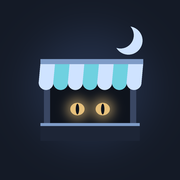
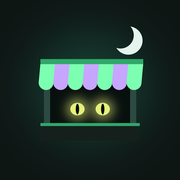
Give the Haunted Mall a new look: dripping ectoplasm with Rubik Wet Paint
Slime green and spectral lilac on green-black, picked from 12 options.
The first-paint defaults, manifest colors and app icon match it.

Changed region(s): [[0.1944, 0.3056, 0.8056, 0.7778], [0.5278, 0.5556, 0.6111, 0.6389]]

diff --git a/index.html b/index.html
@@ -6,7 +6,7 @@
 <title>Monster Shop Idle</title>
 <!-- installable as a home-screen app (manifest.webmanifest, sw.js; icons drawn by tools/make_icons.py) -->
 <link rel="manifest" href="manifest.webmanifest">
-<meta name="theme-color" content="#141a26">
+<meta name="theme-color" content="#0e1614">
 <link rel="icon" type="image/png" sizes="32x32" href="icons/favicon-32.png">
 <link rel="apple-touch-icon" href="icons/apple-touch-icon.png">
 <meta name="mobile-web-app-capable" content="yes">
@@ -14,43 +14,43 @@
 <meta name="apple-mobile-web-app-title" content="Monster Shop">
 <link rel="preconnect" href="https://fonts.googleapis.com">
 <link rel="preconnect" href="https://fonts.gstatic.com" crossorigin>
-<link id="skinFonts" href="https://fonts.googleapis.com/css2?family=Alegreya:wght@700&family=Alegreya+Sans:wght@400;500;700&display=swap" rel="stylesheet">
+<link id="skinFonts" href="https://fonts.googleapis.com/css2?family=Rubik+Wet+Paint&family=Rubik:wght@400;500;700&display=swap" rel="stylesheet">
 <style>
   /* Colors and fonts come from the active skin (SKINS[].theme sets these same names).
      The defaults here are the Haunted Mall skin, so the first paint looks right before the script runs. */
   :root {
-    --bg: #141a26;            /* page */
-    --bg-glow: #243049;       /* soft light at the top of the page */
-    --deep: #0e131c;          /* bar tracks and drop shadows */
-    --panel: #1d2536;         /* shop signs, side panels, cards */
-    --edge: #3a4763;          /* panel borders */
-    --chain: #3a4763;         /* the little chains the shop signs hang from; transparent hides them */
-    --accent: #cfe3ff;        /* cash, Buy, highlights */
-    --accent-dark: #7f9cc7;
-    --on-accent: #14223a;
-    --alt: #6fd1e0;           /* Automate, goals, milestone badge */
-    --alt-dark: #2f8fa0;
-    --on-alt: #062228;
-    --ink: #e6ecf5;
-    --ink-dim: #9aa6bd;
-    --stat: #e6c07b;          /* the milestone currency in the header */
-    --off: #2a3346;           /* disabled Buy */
-    --off-ink: #7f8aa3;
-    --off-dark: #1a2130;
-    --alt-off: #23393f;       /* disabled Automate */
-    --alt-off-ink: #7d9aa0;
-    --alt-off-dark: #16262a;
-    --badge-off: #5a9aa5;
-    --badge-off-dark: #2a5a62;
-    --backdrop: rgba(6, 9, 16, 0.78);
-    --tile-s: 32%;            /* shop icon tiles and bars: hsl(shop hue, these) */
-    --tile-l: 46%;
-    --bar-s: 55%;
-    --bar-l: 62%;
+    --bg: #0e1614;            /* page */
+    --bg-glow: #163a30;       /* soft light at the top of the page */
+    --deep: #08100e;          /* bar tracks and drop shadows */
+    --panel: #15201d;         /* shop signs, side panels, cards */
+    --edge: #2d4a42;          /* panel borders */
+    --chain: #2d4a42;         /* the little chains the shop signs hang from; transparent hides them */
+    --accent: #7dffb2;        /* cash, Buy, highlights */
+    --accent-dark: #2fa86a;
+    --on-accent: #042014;
+    --alt: #c7a6ff;           /* Automate, goals, milestone badge */
+    --alt-dark: #7a58c0;
+    --on-alt: #1a0c33;
+    --ink: #e4f5ee;
+    --ink-dim: #93b0a6;
+    --stat: #e6f07a;          /* the milestone currency in the header */
+    --off: #1f2a27;           /* disabled Buy */
+    --off-ink: #7a8f88;
+    --off-dark: #131c19;
+    --alt-off: #2a2438;       /* disabled Automate */
+    --alt-off-ink: #9488ac;
+    --alt-off-dark: #1a1624;
+    --badge-off: #8a78b0;
+    --badge-off-dark: #4a3c6a;
+    --backdrop: rgba(4, 10, 8, 0.8);
+    --tile-s: 45%;            /* shop icon tiles and bars: hsl(shop hue, these) */
+    --tile-l: 40%;
+    --bar-s: 70%;
+    --bar-l: 58%;
     --radius: 14px;
-    --display: "Alegreya", Georgia, serif;
-    --display-weight: 700;
-    --body: "Alegreya Sans", system-ui, sans-serif;
+    --display: "Rubik Wet Paint", system-ui, sans-serif;
+    --display-weight: 400;
+    --body: "Rubik", system-ui, sans-serif;
   }
   * { box-sizing: border-box; }
   [hidden] { display: none !important; }
@@ -377,18 +377,19 @@
         milestone: { name: "Old Bog Witch", role: "Rival across the street", icon: "🧙", hue: 265 },
         beer:      { name: "Fang",          role: "Werewolf barkeep",        icon: "🐺", hue: 205 },
       },
-      hues: [205, 225, 190, 250, 175, 265],
+      hues: [150, 170, 135, 265, 185, 280],
       sound: { wave: "triangle", root: 220, scale: [0, 3, 5, 7, 10], vibrato: 0.012, vol: 1.4 },   // soft and a little eerie: minor pentatonic with a wobble
+      // Dripping ectoplasm: slime green and spectral lilac on green-black (Rob's pick on 2026-09-29, replacing Moonlit graveyard)
       theme: {
-        fonts: "https://fonts.googleapis.com/css2?family=Alegreya:wght@700&family=Alegreya+Sans:wght@400;500;700&display=swap",
-        display: '"Alegreya", Georgia, serif', "display-weight": "700", body: '"Alegreya Sans", system-ui, sans-serif',
-        bg: "#141a26", "bg-glow": "#243049", deep: "#0e131c", panel: "#1d2536", edge: "#3a4763", chain: "#3a4763",
-        accent: "#cfe3ff", "accent-dark": "#7f9cc7", "on-accent": "#14223a",
-        alt: "#6fd1e0", "alt-dark": "#2f8fa0", "on-alt": "#062228",
-        ink: "#e6ecf5", "ink-dim": "#9aa6bd", stat: "#e6c07b",
-        off: "#2a3346", "off-ink": "#7f8aa3", "off-dark": "#1a2130",
-        "alt-off": "#23393f", "alt-off-ink": "#7d9aa0", "alt-off-dark": "#16262a", "badge-off": "#5a9aa5", "badge-off-dark": "#2a5a62",
-        backdrop: "rgba(6, 9, 16, 0.78)", "tile-s": "32%", "tile-l": "46%", "bar-s": "55%", "bar-l": "62%",
+        fonts: "https://fonts.googleapis.com/css2?family=Rubik+Wet+Paint&family=Rubik:wght@400;500;700&display=swap",
+        display: '"Rubik Wet Paint", system-ui, sans-serif', "display-weight": "400", body: '"Rubik", system-ui, sans-serif',
+        bg: "#0e1614", "bg-glow": "#163a30", deep: "#08100e", panel: "#15201d", edge: "#2d4a42", chain: "#2d4a42",
+        accent: "#7dffb2", "accent-dark": "#2fa86a", "on-accent": "#042014",
+        alt: "#c7a6ff", "alt-dark": "#7a58c0", "on-alt": "#1a0c33",
+        ink: "#e4f5ee", "ink-dim": "#93b0a6", stat: "#e6f07a",
+        off: "#1f2a27", "off-ink": "#7a8f88", "off-dark": "#131c19",
+        "alt-off": "#2a2438", "alt-off-ink": "#9488ac", "alt-off-dark": "#1a1624", "badge-off": "#8a78b0", "badge-off-dark": "#4a3c6a",
+        backdrop: "rgba(4, 10, 8, 0.8)", "tile-s": "45%", "tile-l": "40%", "bar-s": "70%", "bar-l": "58%",
       },
       episodes: [
         {

diff --git a/tools/make_icons.py b/tools/make_icons.py
@@ -7,8 +7,8 @@ from pathlib import Path
 from PIL import Image, ImageDraw, ImageFilter
 
 S = 1024                      # drawn big, then scaled down for smooth edges
-BG, GLOW, DEEP, PANEL, EDGE = "#141a26", "#243049", "#0e131c", "#1d2536", "#3a4763"
-MOON, STRIPE_A, STRIPE_B, TRIM, EYE = "#cfe3ff", "#cfe3ff", "#6fd1e0", "#7f9cc7", "#e6c07b"
+BG, GLOW, DEEP, PANEL, EDGE = "#0e1614", "#163a30", "#08100e", "#15201d", "#2d4a42"
+MOON, STRIPE_A, STRIPE_B, TRIM, EYE = "#e4f5ee", "#7dffb2", "#c7a6ff", "#2fa86a", "#e6f07a"
 
 
 def draw():

diff --git a/CLAUDE.md b/CLAUDE.md
@@ -15,7 +15,7 @@ An idle clicker about running dodgy shops, named Monster Shop Idle (Rob's choice
 
 ## How the game works (current state)
 
-- Skins: everything players read or see lives in `SKINS` (owner, words for customers, currency names, chest names, the cast on each card, shop hues, episodes with shops/story, and a `theme` of CSS variables plus a Google Fonts URL). Mechanics (`SCHEMES`, `CARDS`, `CHESTS`, goals) are shared, so saves work in any skin. Five skins: `mall` (Grizzle's Haunted Mall, Moonlit graveyard palette with Alegreya, which Rob picked from 12 theme options), `starport` (Juno Vance on Starport Nine, navy/amber/teal with Russo One), and three added 2026-09-29 at Rob's request: `ship` (Captain Nell on The Salty Gull, night sea/gold/red with Pirata One), `neon` (Kix in the Neon Night Market, black-violet/magenta/cyan with Audiowide) and `robot` (Rivet on Planet Cog, gunmetal/lime/orange with Tilt Warp). Avoid uppercase-only display fonts (Bungee, Rubik Mono One): Rob doesn't want all-caps labels. Picked in the side panel (pref key `...-skin`) or forced with `?skin=`. The CSS `:root` defaults mirror the mall theme so the first paint matches; every color is a variable, so add new colors as theme variables, not hex in rules.
+- Skins: everything players read or see lives in `SKINS` (owner, words for customers, currency names, chest names, the cast on each card, shop hues, episodes with shops/story, and a `theme` of CSS variables plus a Google Fonts URL). Mechanics (`SCHEMES`, `CARDS`, `CHESTS`, goals) are shared, so saves work in any skin. Five skins: `mall` (Grizzle's Haunted Mall, Dripping ectoplasm palette: slime green and lilac on green-black with Rubik Wet Paint, which Rob picked on 2026-09-29 from 12 options over the earlier Moonlit graveyard with Alegreya), `starport` (Juno Vance on Starport Nine, navy/amber/teal with Russo One), and three added 2026-09-29 at Rob's request: `ship` (Captain Nell on The Salty Gull, night sea/gold/red with Pirata One), `neon` (Kix in the Neon Night Market, black-violet/magenta/cyan with Audiowide) and `robot` (Rivet on Planet Cog, gunmetal/lime/orange with Tilt Warp). Avoid uppercase-only display fonts (Bungee, Rubik Mono One): Rob doesn't want all-caps labels. Picked in the side panel (pref key `...-skin`) or forced with `?skin=`. The CSS `:root` defaults, the `skinFonts` link, the `theme-color` meta, the manifest colors and the icon colors in `tools/make_icons.py` all mirror the mall theme, so change them together; every color is a variable, so add new colors as theme variables, not hex in rules.
 - Six shop slots, unlocked in order. Numbers per slot live in `SCHEMES` (cost, growth, payout, run time, automate cost). Names, icons, nouns and story text per episode live in each skin's `episodes`. Costs grow geometrically, milestones at 10/25/50/100/150 customers double a shop's income and give 1 beer.
 - Prestige = episode finale. Needs `GOALS_NEEDED` (5) of the 9 goals plus one customer of the sixth shop. Resets cash and shops; keeps beer, eggs, crystals and cards; gives 3 eggs and multiplies the permanent income bonus `S.perm` by 1 + `finaleGain()` (x1.5, or x2 with the finale card maxed). It multiplied from 2026-09-29; before that it added +50%, and old saves just keep whatever `perm` they had.
 - Episodes: five per skin (mall: Haunted Mall, Swamp Market, Crypt Quarter, Midnight Carnival, Sunken Casino; starport: Docking Ring, Hydroponics Deck, Reactor Row, Zero-G Stadium, Pirate Moon), then they repeat ("Haunted Mall 2"). Each finale's last line hands off to the next district, and episode 5's leads back to episode 1, so adding an episode means rewriting the previous finale's ending. All episodes share the same `SCHEMES`, but customer costs, automation costs and goals marked `scaled: true` (the cash goal, `{$}` in its text) multiply by `costMult()` = `EPISODE_COST_GROWTH ^ episode` (2.5, so x2.5, x6.25, x15.6, ...).
@@ -44,7 +44,7 @@ The simulator also plays casual (10 min every 2 h) and idle (3 min, 3x a day) pr
 - Commit locally as work is done, but ask before pushing. Pushing publishes to the public repo and the live Pages site. After a push, Pages takes about a minute; verify with the Pages build status (`gh api repos/rstibal/monster-shop-idle/pages/builds/latest`).
 - End commit messages with a `Co-Authored-By: Claude <model> <noreply@anthropic.com>` line naming the model actually running the session (for example `Claude Opus 5.5`).
 - The repo lives at `C:\www\monster-shop-idle` on the main computer (outside OneDrive on purpose; don't put `.git` in a synced folder).
-- Keep the UI distinctive, not generic (raised buttons, a strong display font per skin, colors from the skin's theme). No all-caps labels. Rob didn't like the original moss and plum palette; of 12 options only Moonlit graveyard landed.
+- Keep the UI distinctive, not generic (raised buttons, a strong display font per skin, colors from the skin's theme). No all-caps labels. Rob didn't like the original moss and plum palette; Moonlit graveyard (silver and blue) was the mall's look until 2026-09-29, when he switched to Dripping ectoplasm. When he asks for a new look, show several real options side by side (the game in iframes with the theme swapped) and let him mix colors and fonts.
 
 ## Ideas not done yet
 

diff --git a/README.md b/README.md
@@ -29,7 +29,7 @@ The side panel has a Setting picker. Each setting has its own cast, shops, story
 
 | Setting | Owner | Episodes | Currencies | Look |
 | --- | --- | --- | --- | --- |
-| Haunted Mall | Grizzle, a goblin | Haunted Mall, Swamp Market, Crypt Quarter, Midnight Carnival, Sunken Casino | Beer, eggs, crystals | Moonlit graveyard: silver and blue, Alegreya |
+| Haunted Mall | Grizzle, a goblin | Haunted Mall, Swamp Market, Crypt Quarter, Midnight Carnival, Sunken Casino | Beer, eggs, crystals | Dripping ectoplasm: slime green and lilac on green-black, Rubik Wet Paint |
 | Starport Nine | Juno Vance, an ex-smuggler | Docking Ring, Hydroponics Deck, Reactor Row, Zero-G Stadium, Pirate Moon | Scrap, keycards, stardust | Deep space navy with amber and teal, Russo One |
 | The Salty Gull | Captain Nell, a pirate | Barnacle Harbor, Smuggler's Cove, Skull Island, Floating Fair, Treasure Reef | Grog, doubloons, pearls | Night sea with gold and red, rope instead of chains, Pirata One |
 | Neon Night Market | Kix, a street vendor | Gutter Street, Rain Bazaar, Chrome Row, Overdrive Circuit, Skyline Tower | Batteries, tokens, shards | Black-violet with magenta and cyan, Audiowide |
